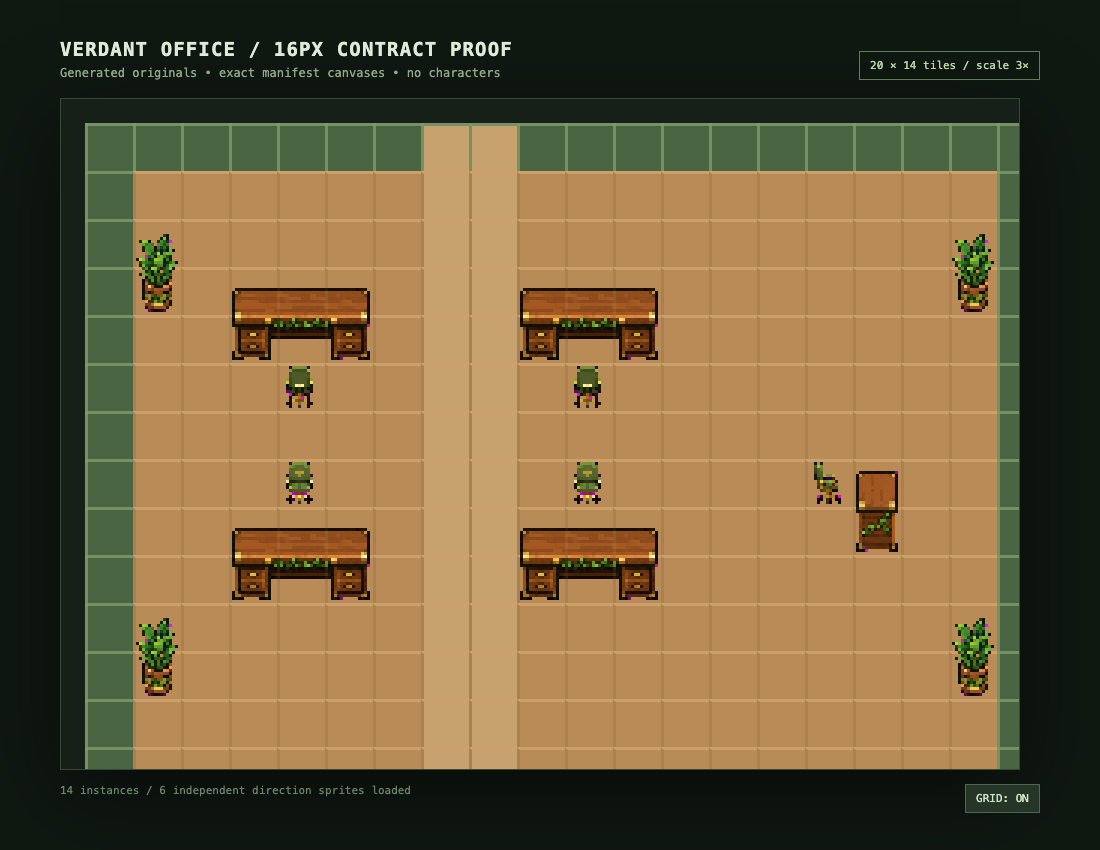
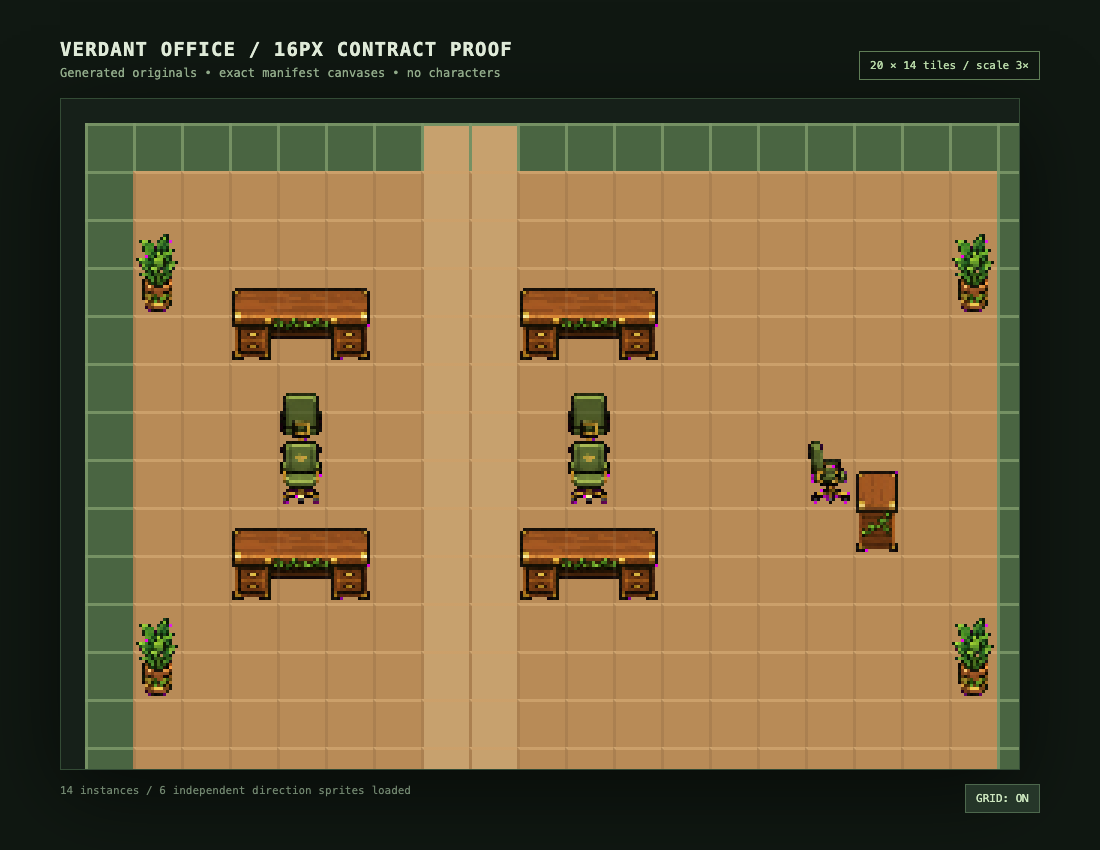
fix: override default Pixel Agents workstation IDs

Changed region(s): [[0.2473, 0.4282, 0.3091, 0.6118], [0.4945, 0.4282, 0.5564, 0.6118], [0.7109, 0.52, 0.7727, 0.6118]]

diff --git a/pixel-agents-room.html b/pixel-agents-room.html
@@ -40,12 +40,12 @@
       const status = document.querySelector('#status');
       const layout = await fetch('./pixel-agents-pack/demo-layout.json').then(r => r.json());
       const assets = {
-        VERDANT_DESK_FRONT: ['VERDANT_DESK', 48, 32],
-        VERDANT_DESK_SIDE: ['VERDANT_DESK', 16, 64],
-        VERDANT_CHAIR_FRONT: ['VERDANT_CHAIR', 16, 16],
-        VERDANT_CHAIR_BACK: ['VERDANT_CHAIR', 16, 16],
-        VERDANT_CHAIR_SIDE: ['VERDANT_CHAIR', 16, 16],
-        VERDANT_PLANT: ['VERDANT_PLANT', 16, 32]
+        DESK_FRONT: ['DESK', 48, 32],
+        DESK_SIDE: ['DESK', 16, 64],
+        WOODEN_CHAIR_FRONT: ['WOODEN_CHAIR', 16, 32],
+        WOODEN_CHAIR_BACK: ['WOODEN_CHAIR', 16, 32],
+        WOODEN_CHAIR_SIDE: ['WOODEN_CHAIR', 16, 32],
+        PLANT: ['PLANT', 16, 32]
       };
       for (let row = 0; row < layout.rows; row++) for (let col = 0; col < layout.cols; col++) {
         const tile = document.createElement('div');

diff --git a/scripts/build-pixel-agents-pack.py b/scripts/build-pixel-agents-pack.py
@@ -13,12 +13,12 @@ PACK = ROOT / "pixel-agents-pack/assets/furniture"
 
 ASSETS = (
     # folder, id, measured connected-component bbox in the alpha master, runtime size
-    ("VERDANT_DESK", "VERDANT_DESK_FRONT", (104, 160, 591, 417), (48, 32)),
-    ("VERDANT_DESK", "VERDANT_DESK_SIDE", (759, 122, 921, 430), (16, 64)),
-    ("VERDANT_CHAIR", "VERDANT_CHAIR_FRONT", (1176, 141, 1361, 425), (16, 16)),
-    ("VERDANT_CHAIR", "VERDANT_CHAIR_BACK", (241, 613, 423, 882), (16, 16)),
-    ("VERDANT_CHAIR", "VERDANT_CHAIR_SIDE", (741, 613, 919, 882), (16, 16)),
-    ("VERDANT_PLANT", "VERDANT_PLANT", (1176, 584, 1340, 889), (16, 32)),
+    ("DESK", "DESK_FRONT", (104, 160, 591, 417), (48, 32)),
+    ("DESK", "DESK_SIDE", (759, 122, 921, 430), (16, 64)),
+    ("WOODEN_CHAIR", "WOODEN_CHAIR_FRONT", (1176, 141, 1361, 425), (16, 32)),
+    ("WOODEN_CHAIR", "WOODEN_CHAIR_BACK", (241, 613, 423, 882), (16, 32)),
+    ("WOODEN_CHAIR", "WOODEN_CHAIR_SIDE", (741, 613, 919, 882), (16, 32)),
+    ("PLANT", "PLANT", (1176, 584, 1340, 889), (16, 32)),
 )
 
 

diff --git a/docs/pixel-agents-compatibility-contract.md b/docs/pixel-agents-compatibility-contract.md
@@ -20,6 +20,9 @@ load test still required.
   orientation first, then adjacent desk detection, then the default direction.
 - Runtime draw order is sorted by the sprite/character bottom Y coordinate;
   surface-placeable items receive a small offset above their supporting desk.
+- External furniture is merged after bundled furniture. Matching asset IDs in
+  the external pack replace the bundled catalog/sprite entries, so an existing
+  default layout can be reskinned without rewriting its placement records.
 
 ## Primary-source evidence
 
@@ -32,6 +35,8 @@ load test still required.
   surface layering, and mirrored side variants
 - `webview-ui/src/office/layout/layoutSerializer.ts:102-205` — collision and seats
 - `webview-ui/public/assets/default-layout-1.json:54-90` — real placement records
+- `server/src/assetLoader.ts:49-55` and
+  `adapters/vscode/PixelAgentsViewProvider.ts:711-721` — external override order
 
 Reference checkout audited at commit `928ccd463bf516d67e0700af7e767ca083f795d8`.
 The checkout is read-only reference material and remains outside the new pack.
@@ -43,9 +48,9 @@ office:
 
 | Pixel Agents role | Original replacement | Runtime files |
 |---|---|---|
-| 3×2 / 1×4 desk | Verdant wood-and-vine desk | `VERDANT_DESK_*` |
-| 1×1 rotatable chair | Leaf-green brass chair | `VERDANT_CHAIR_*` |
-| 1×2 plant | Terracotta/brass planted foliage | `VERDANT_PLANT.png` |
+| 3×2 / 1×4 desk | Verdant wood-and-vine desk | `DESK_*` override |
+| 1×2 rotatable chair | Leaf-green brass chair | `WOODEN_CHAIR_*` override |
+| 1×2 plant | Terracotta/brass planted foliage | `PLANT.png` override |
 
 Next replacement batches must add PC/electronics, tables, seating, storage,
 wall decor, cafe/lab props, and original floor/wall tiles before the default

diff --git a/pixel-agents-pack/README.md b/pixel-agents-pack/README.md
@@ -14,9 +14,13 @@ In Pixel Agents Settings, add this directory as an external asset directory:
 
 The current workstation checkpoint contains:
 
-- `VERDANT_DESK`: front and side orientations
-- `VERDANT_CHAIR`: front, back, right side, and runtime-mirrored left side
-- `VERDANT_PLANT`: compact tall decor
+- `DESK`: front and side orientations, overriding the bundled desk IDs
+- `WOODEN_CHAIR`: front, back, right side, and runtime-mirrored left side
+- `PLANT`: compact tall decor overriding the bundled plant ID
+
+The matching built-in IDs are intentional: Pixel Agents merges external assets
+after built-ins and the later entry wins. Therefore the existing default layout
+uses these replacements without editing its layout JSON.
 
 All runtime canvases use exact 16 px tile multiples. Run the deterministic
 build and metadata check from the repository root: